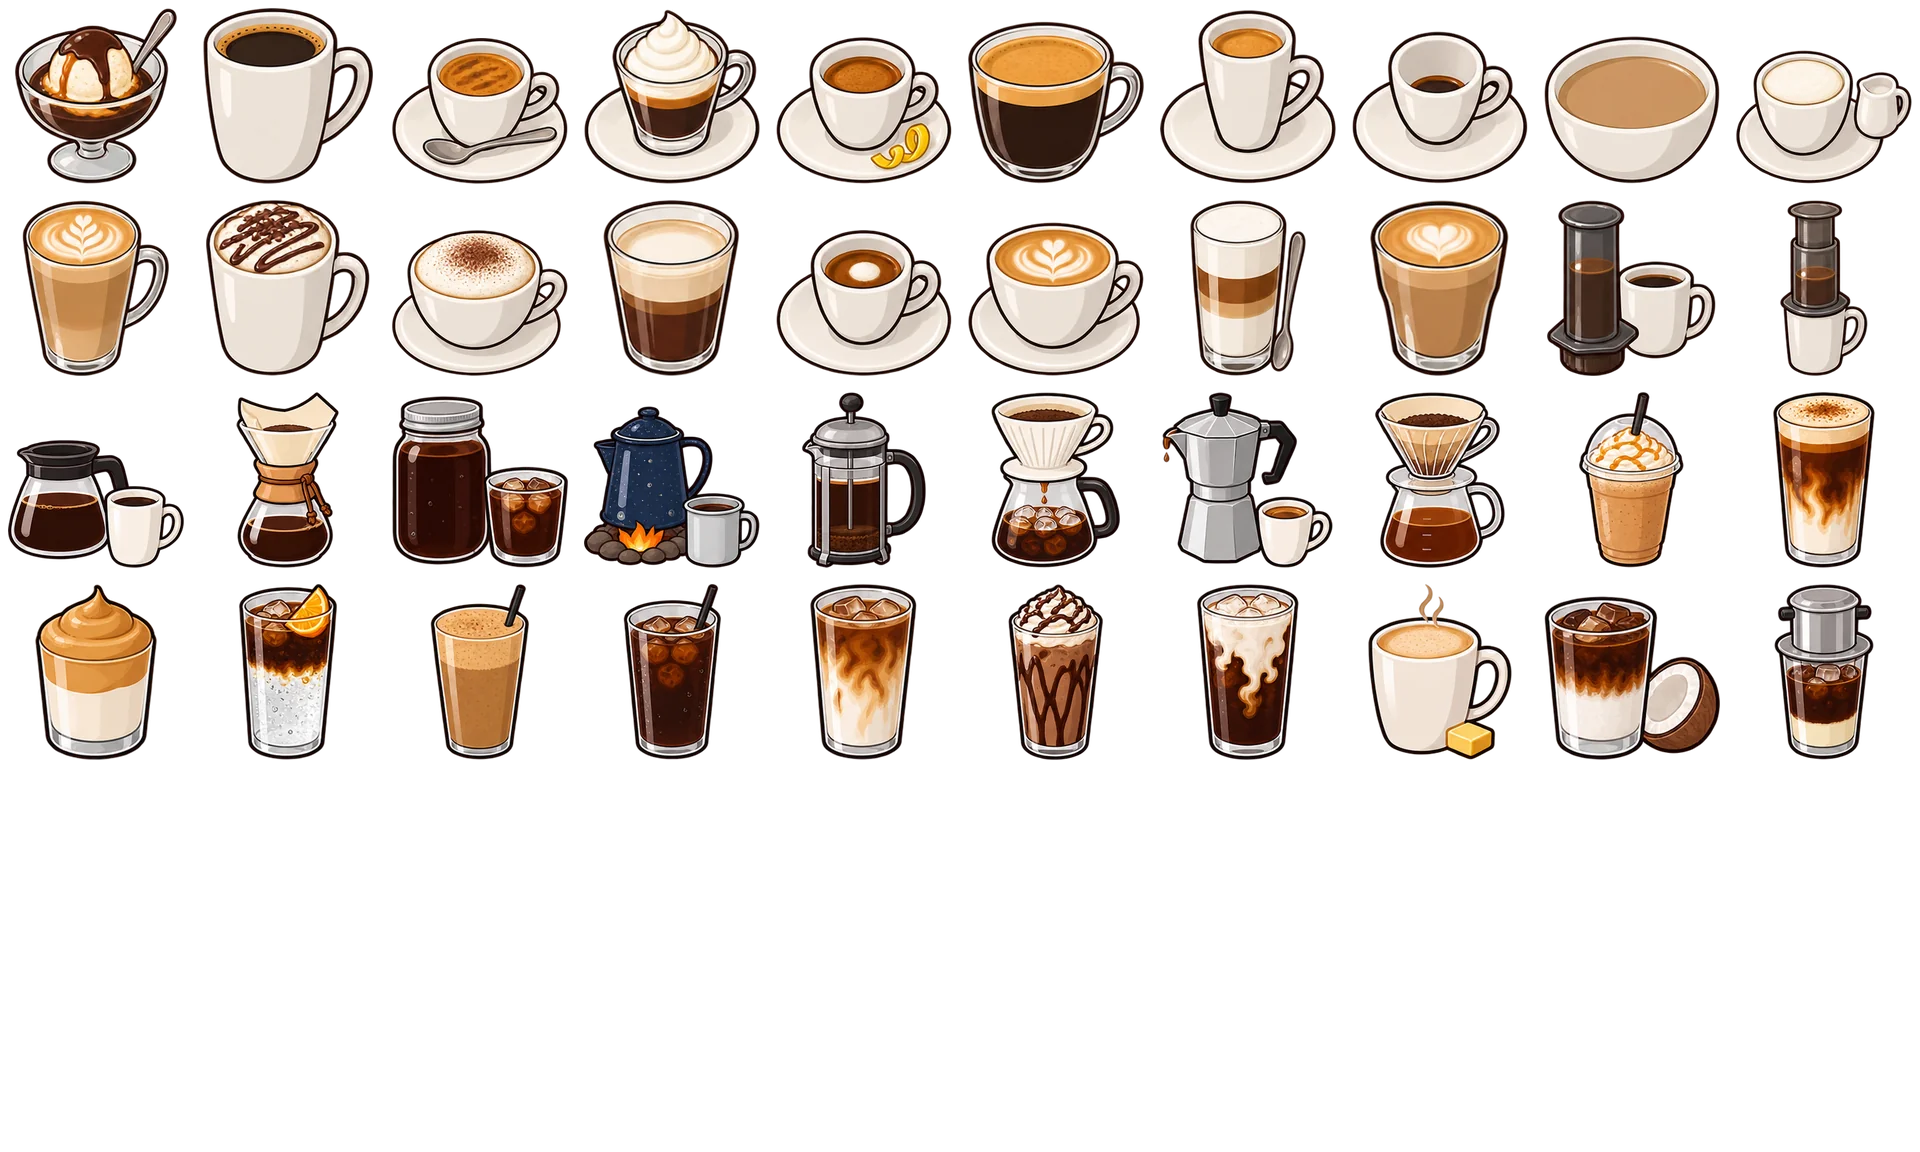
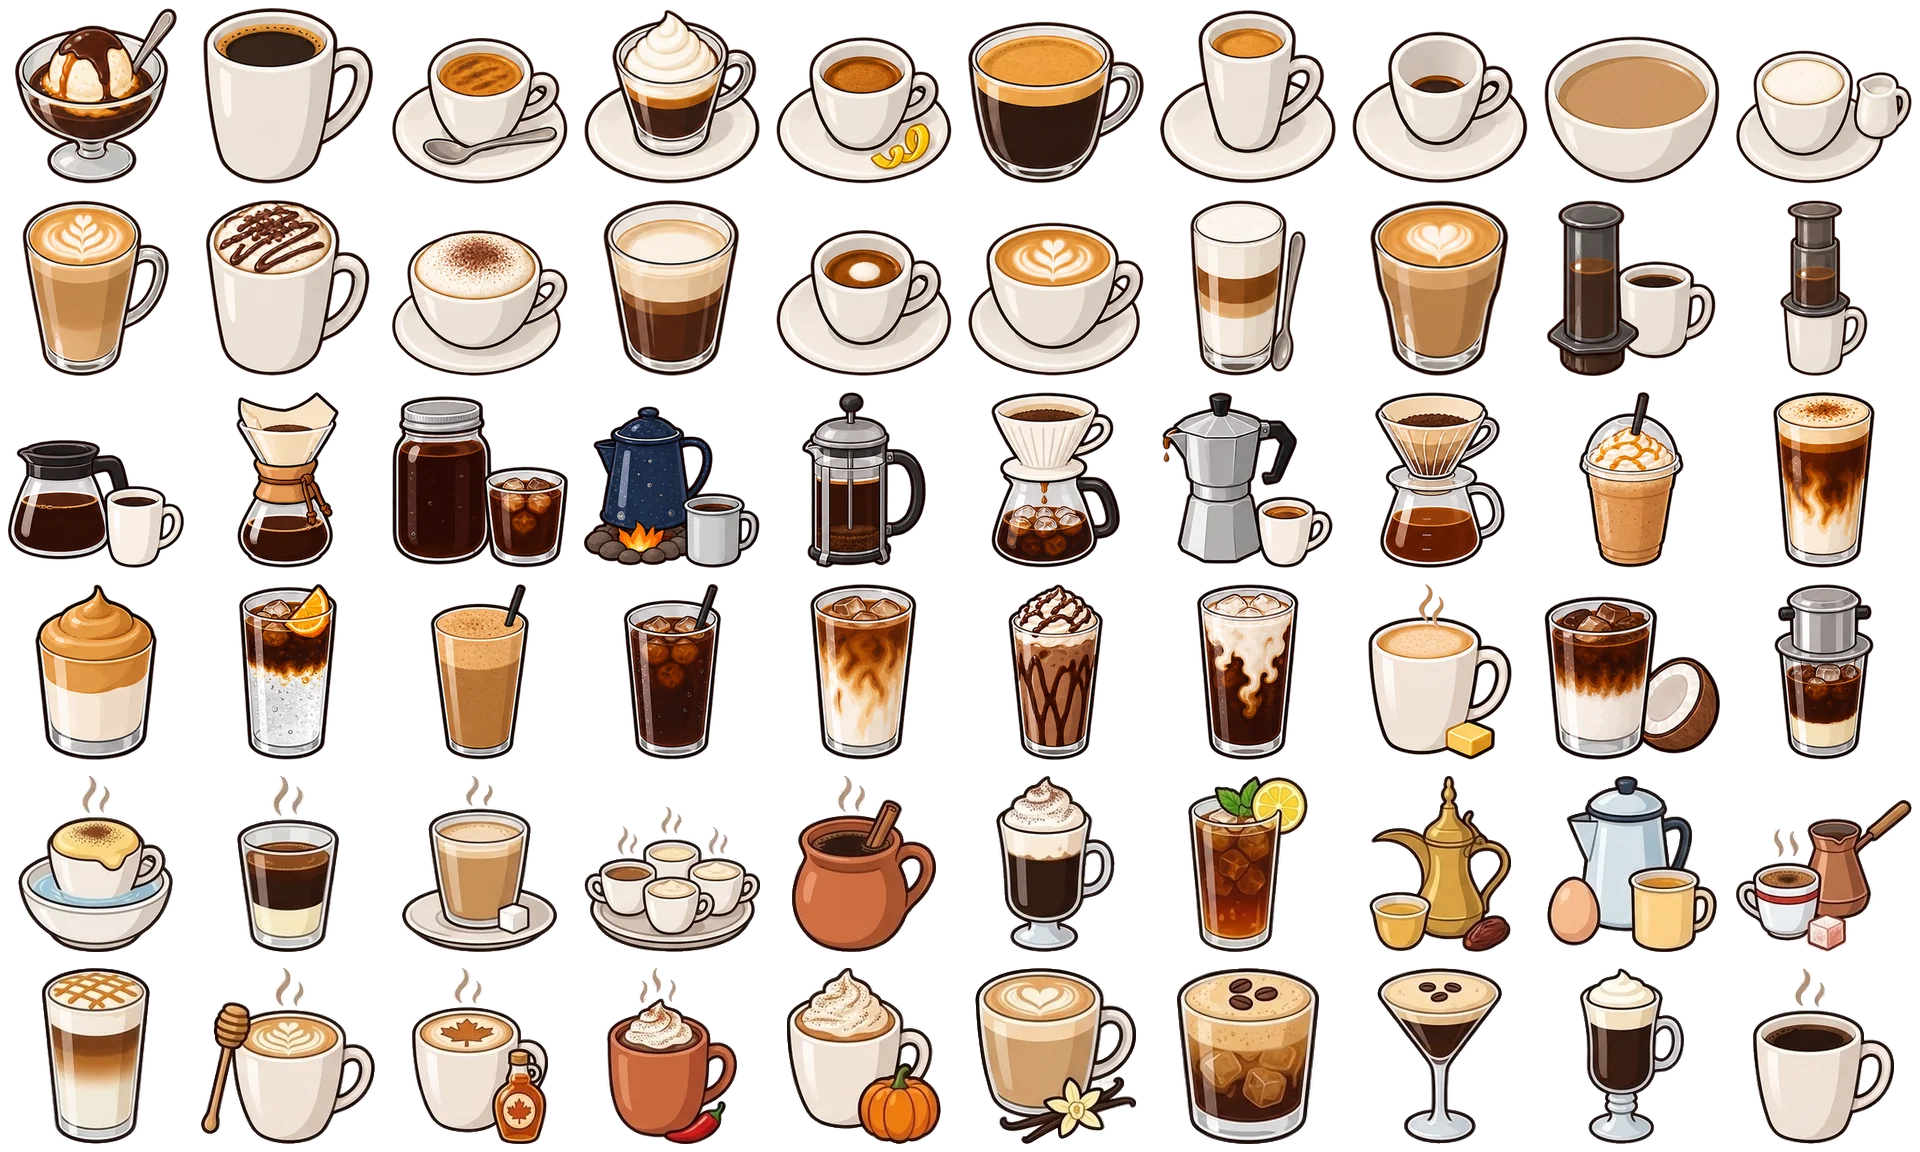
Add drink sheet C: all 59 recipes now have illustrations
- scripts/remove_checkerboard.py turns a generated image with a painted
  transparency checkerboard into real alpha (colour-based, with a
  checker-grid alignment test so glass bottoms/stems are kept)
- Clean sheet C, re-slice into src/assets/drinks.webp (60 of 60 cells)
- Spec: document the checkerboard cleanup step

Changed region(s): [[0.0, 0.6562, 1.0, 1.0]]

diff --git a/scripts/remove_checkerboard.py b/scripts/remove_checkerboard.py
@@ -1,0 +1,143 @@
+# Turns a generated image with a *painted* transparency checkerboard (common when a generator can't output alpha)
+# into a real transparent PNG, so it can go through slice_sheets.py.
+#
+# The checkerboard is perfectly neutral (light grey + white) while the illustrations are warm-tinted, so background
+# is found by colour: neutral light pixels reachable from the image border, plus enclosed pockets (inside cup
+# handles, between glass and spoon) that contain both checker tones. A thin neutral JPEG fringe around outlines is
+# trimmed too.
+#
+#   python3 scripts/remove_checkerboard.py in.jpg docs/drink-sheet-c.png
+#
+# Requires Pillow.
+import sys
+from collections import deque
+
+from PIL import Image
+
+MAX_SAT = 10  # checker pixels are neutral: max(r,g,b) - min(r,g,b)
+MIN_LUM = 205  # ...and light (grey tone ~221, white ~255)
+FRINGE_SAT = 18  # looser test for the JPEG blend ring right next to background
+FRINGE_LUM = 180
+FRINGE_PASSES = 2
+MIN_GRID_AGREEMENT = 0.88  # enclosed pockets must follow the checker's column pattern: real holes score >0.9,
+# neutral glass bottoms/stems score <0.85
+
+
+def fit_columns(lum, W, H):
+    """Fit the checker's column period/offset from grey↔white transitions along the top rows (usually empty)."""
+    best = None
+    for y in range(2, min(12, H)):
+        row = [lum[y * W + x] for x in range(W)]
+        edges = [x for x in range(1, W) if (row[x - 1] < 238) != (row[x] < 238)]
+        if len(edges) < 6:
+            continue
+        n = len(edges)
+        mk = (n - 1) / 2
+        me = sum(edges) / n
+        s = sum((k - mk) * (e - me) for k, e in enumerate(edges)) / sum((k - mk) ** 2 for k in range(n))
+        o = me - s * mk
+        err = max(abs(e - (o + s * k)) for k, e in enumerate(edges))
+        if best is None or err < best[2]:
+            best = (s * 2, o, err)  # a full period is two squares
+    if best is None or best[2] > 2:
+        raise SystemExit('could not find a regular checkerboard along the top edge')
+    period, first_edge, _ = best
+    return period, first_edge - period / 2  # offset so that column parity 0 = first (grey) square
+
+
+def main(src, dst):
+    im = Image.open(src).convert('RGB')
+    W, H = im.size
+    data = list(im.get_flattened_data() if hasattr(im, 'get_flattened_data') else im.getdata())
+    lum = [sum(p) // 3 for p in data]
+    sat = [max(p) - min(p) for p in data]
+    cand = bytearray(1 if sat[i] <= MAX_SAT and lum[i] >= MIN_LUM else 0 for i in range(W * H))
+
+    def neighbours(j):
+        x = j % W
+        if x > 0:
+            yield j - 1
+        if x < W - 1:
+            yield j + 1
+        if j >= W:
+            yield j - W
+        if j < W * (H - 1):
+            yield j + W
+
+    period, offset = fit_columns(lum, W, H)
+    print(f'checker columns: period {period:.3f}px, offset {offset:.2f}px')
+
+    def grid_agreement(comp):
+        # Along each row the checker flips tone at every grid column; per row the phase is unknown (the painted
+        # pattern isn't perfectly regular vertically), so take the best of the two phases row by row.
+        rows = {}
+        for j in comp:
+            if 212 <= lum[j] <= 232 or lum[j] >= 245:
+                y, x = divmod(j, W)
+                col_parity = int((x - offset) // (period / 2)) % 2  # flips every square
+                is_grey = lum[j] <= 232
+                rows.setdefault(y, [0, 0])[col_parity ^ is_grey] += 1
+        total = sum(a + b for a, b in rows.values())
+        return sum(max(a, b) for a, b in rows.values()) / total if total else 0
+
+    bg = bytearray(W * H)
+    seen = bytearray(W * H)
+
+    # 1. everything neutral-light connected to the border
+    q = deque(i for i in range(W * H) if cand[i] and (i < W or i >= W * (H - 1) or i % W in (0, W - 1)))
+    for i in q:
+        seen[i] = 1
+    while q:
+        j = q.popleft()
+        bg[j] = 1
+        for k in neighbours(j):
+            if cand[k] and not seen[k]:
+                seen[k] = 1
+                q.append(k)
+
+    # 2. enclosed pockets that look like checkerboard (both tones present)
+    pockets = 0
+    for i in range(W * H):
+        if not cand[i] or seen[i]:
+            continue
+        comp = []
+        q = deque([i])
+        seen[i] = 1
+        while q:
+            j = q.popleft()
+            comp.append(j)
+            for k in neighbours(j):
+                if cand[k] and not seen[k]:
+                    seen[k] = 1
+                    q.append(k)
+        grey = sum(1 for j in comp if 212 <= lum[j] <= 232) / len(comp)
+        white = sum(1 for j in comp if lum[j] >= 245) / len(comp)
+        agree = grid_agreement(comp) if len(comp) >= 40 and grey >= 0.15 and white >= 0.15 else 0
+        if agree >= MIN_GRID_AGREEMENT:
+            pockets += 1
+            for j in comp:
+                bg[j] = 1
+
+    # 3. trim the neutral JPEG blend ring hugging the background
+    for _ in range(FRINGE_PASSES):
+        ring = [
+            j
+            for j in range(W * H)
+            if not bg[j]
+            and sat[j] <= FRINGE_SAT
+            and lum[j] >= FRINGE_LUM
+            and any(bg[k] for k in neighbours(j))
+        ]
+        for j in ring:
+            bg[j] = 1
+
+    out = Image.new('RGBA', (W, H))
+    out.putdata([(r, g, b, 0 if bg[i] else 255) for i, (r, g, b) in enumerate(data)])
+    out.save(dst, optimize=True)
+    print(f'{dst}: removed {sum(bg)} of {W * H} px as background ({pockets} enclosed pockets such as cup-handle holes)')
+
+
+if __name__ == '__main__':
+    if len(sys.argv) != 3:
+        raise SystemExit('usage: remove_checkerboard.py <in> <out.png>')
+    main(sys.argv[1], sys.argv[2])

diff --git a/docs/drink-sprite-spec.md b/docs/drink-sprite-spec.md
@@ -138,12 +138,13 @@ Same set as the ingredient icons (`docs/icon-sheet-source.png`). Put that image 
 
 If one sheet has errors, regenerate **only that sheet**, or the single row as a 1600 × 320 strip with the same prompt.
 
-## 5. Integration (done for sheets A and B)
+## 5. Integration (done)
 
 - The sheets live in `docs/drink-sheet-{a,b,c}.png`. `python3 scripts/slice_sheets.py drinks` cuts them into a 10 × 6 grid of 192 px cells (`src/assets/drinks.webp`, drinks bottom-aligned) and writes `src/assets/drinks.json` listing which cells have art.
 - `src/lib/drinkCells.ts` maps recipe id → cell (from §3). `DrinkArt` shows the drawing on recipe cards, What to Brew results and the recipe hero, and falls back to the SVG `Cup` for any cell without art. A missing sheet just means those recipes keep the drawn cup.
 - `src/lib/drinks.test.ts` checks that every recipe has its own cell.
 - To add or replace a sheet: save it as `docs/drink-sheet-<letter>.png` and re-run the script. No code changes are needed.
+- If a generator paints a fake transparency **checkerboard** instead of real alpha (sheet C did, as a JPEG), clean it first: `python3 scripts/remove_checkerboard.py in.jpg docs/drink-sheet-c.png`. The script removes the neutral grey and white background, including cup-handle holes that line up with the checker grid, and keeps neutral glass bottoms and stems.
 
 ## 6. Ready-to-paste prompts
 
